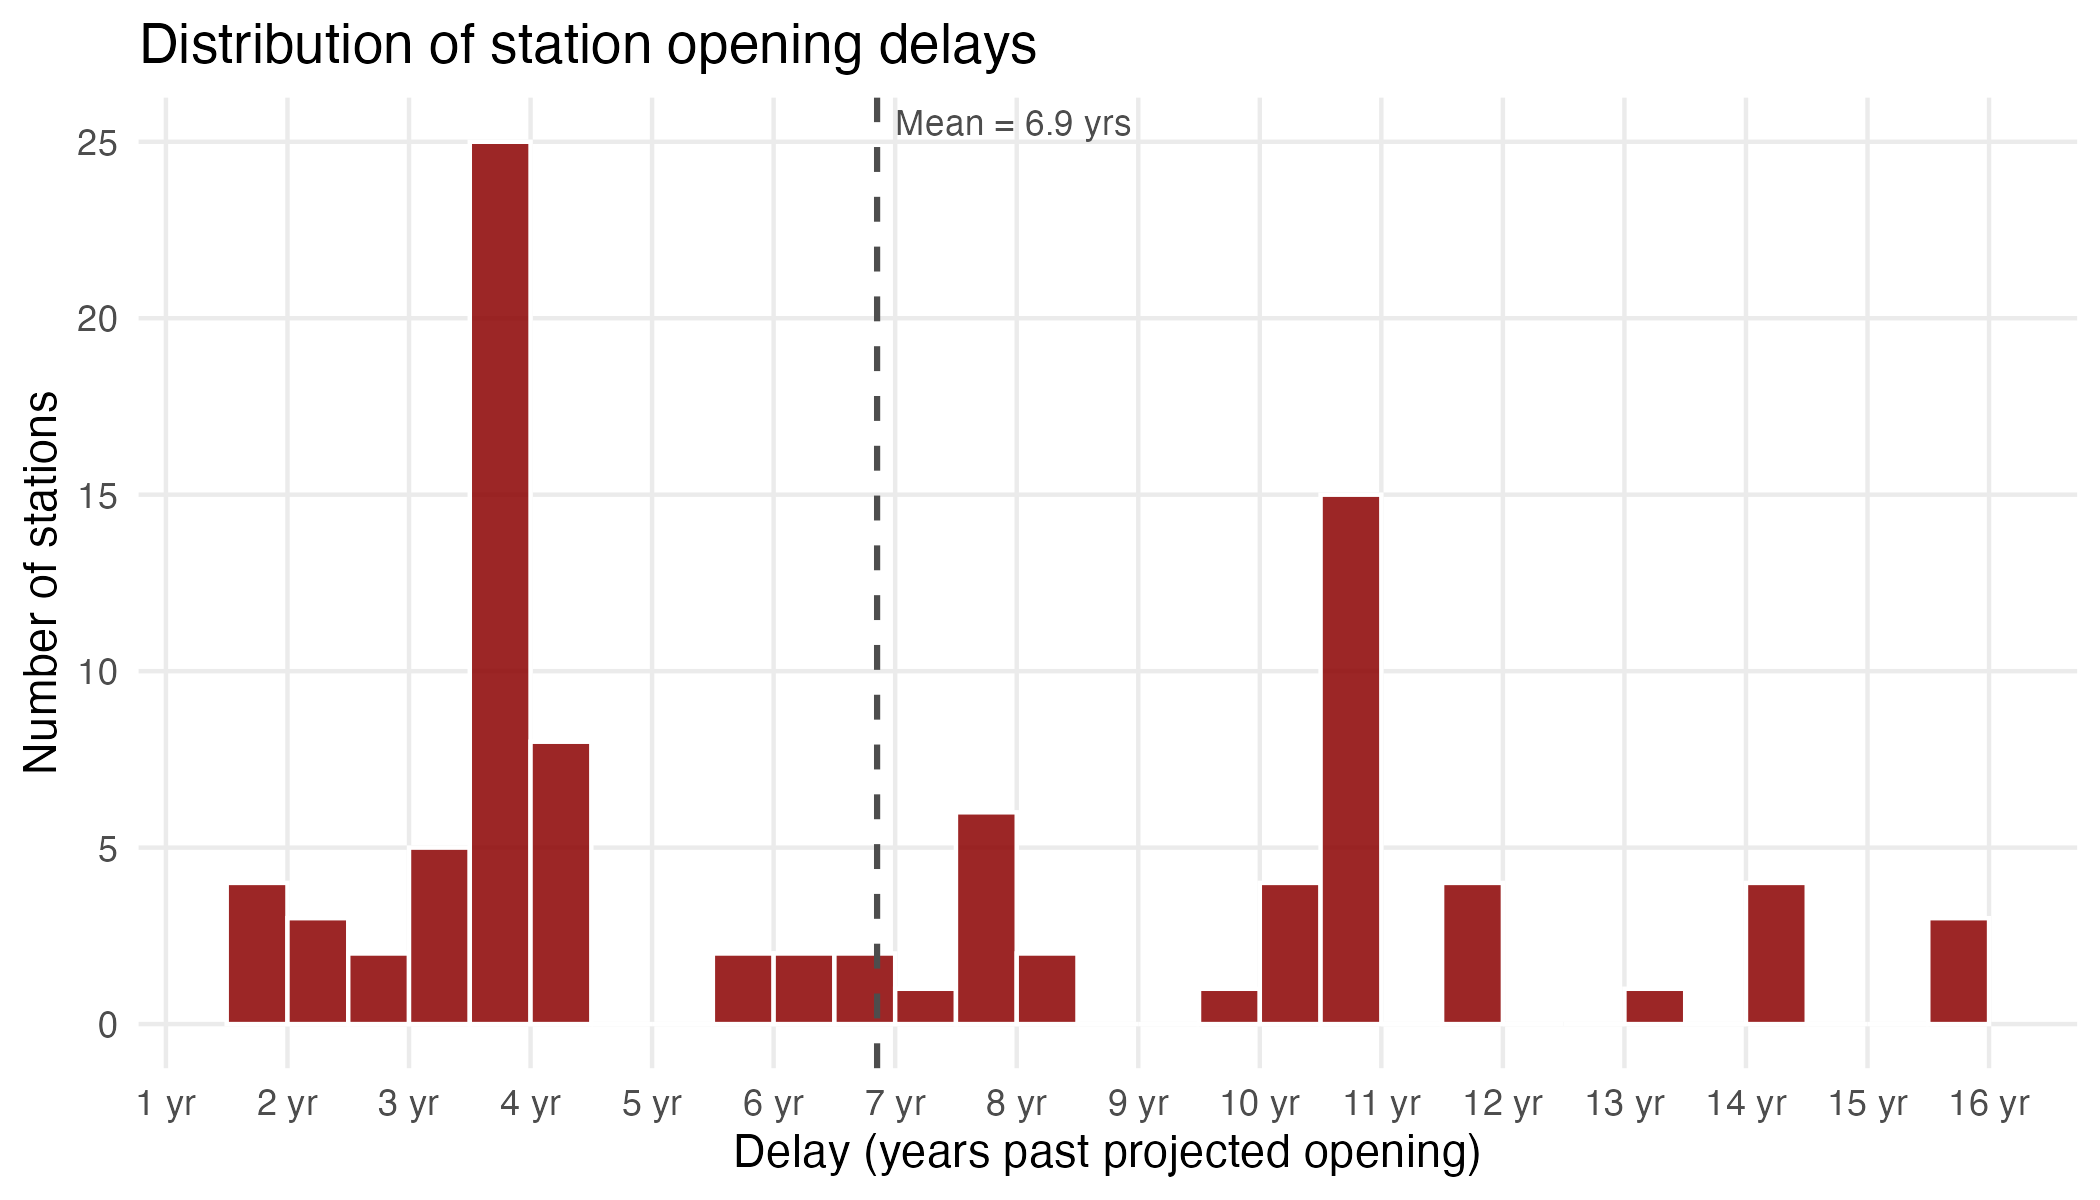
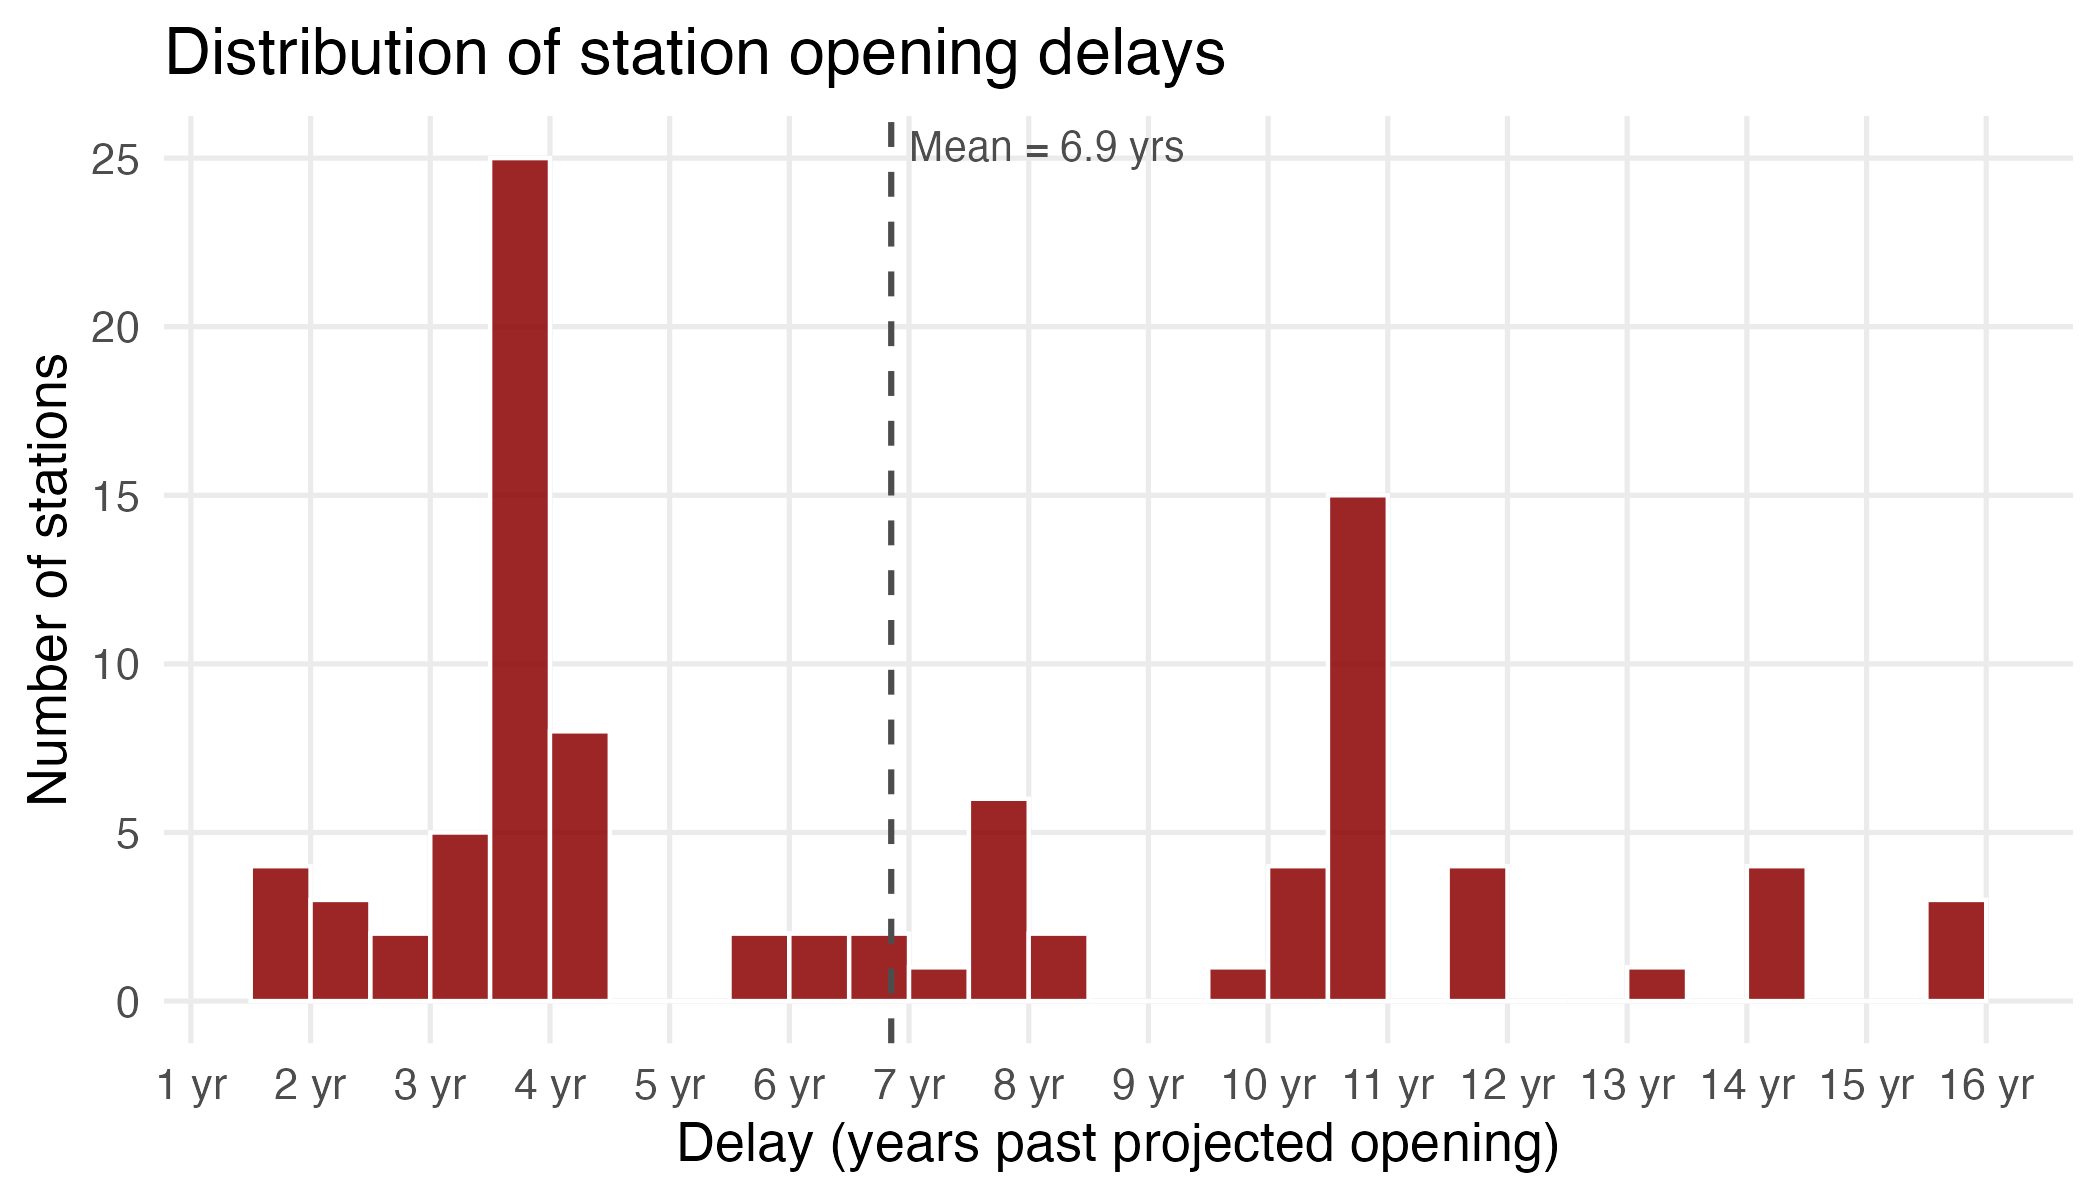
Increased font size

diff --git a/3_output/3_tables/3_delay_robustness/delay_labormarket_combined.tex b/3_output/3_tables/3_delay_robustness/delay_labormarket_combined.tex
@@ -1,0 +1,41 @@
+
+\begin{table}[htbp]
+   \caption{Delay (days) on labor market characteristics}
+   \centering
+\resizebox{!}{0.35\textheight}{%
+   \begin{tabular}{lccc}
+      \tabularnewline \midrule \midrule
+      Dependent Variable: & \multicolumn{3}{c}{Delay (days)}\\
+      Model:            & (1)     & (2)             & (3)\\  
+      \midrule
+      \emph{Variables}\\
+      Median income     & 4.582   &                 & 286.0\\   
+                        & (184.7) &                 & (259.4)\\   
+      LFP rate          & 55.08   &                 & 300.1$^{*}$\\   
+                        & (142.3) &                 & (173.6)\\   
+      Unemployment rate & -173.1  &                 & -127.5\\   
+                        & (106.3) &                 & (170.2)\\   
+      Employment rate   & -0.1869 &                 & -247.4$^{*}$\\   
+                        & (113.6) &                 & (125.6)\\   
+      Bachelor's share  & -11.80  &                 & -314.2\\   
+                        & (193.0) &                 & (216.0)\\   
+      Poverty rate      & 237.3   &                 & 136.5\\   
+                        & (279.8) &                 & (263.3)\\   
+      Constant          &         & 2,458.0$^{***}$ & 2,458.0$^{***}$\\   
+                        &         & (151.1)         & (151.2)\\   
+      \midrule
+      \emph{Fixed-effects}\\
+      system            & Yes     &                 & \\  
+      \midrule
+      \emph{Fit statistics}\\
+      Observations      & 91      & 91              & 91\\  
+      R$^2$             & 0.58834 &                 & 0.06631\\  
+      Within R$^2$      & 0.05623 &                 & \\  
+      \midrule \midrule
+      \multicolumn{4}{l}{\emph{Heteroskedasticity-robust standard-errors in parentheses}}\\
+      \multicolumn{4}{l}{\emph{Signif. Codes: ***: 0.01, **: 0.05, *: 0.1}}\\
+   \end{tabular}%
+}
+\end{table}
+
+

diff --git a/3_output/3_tables/3_delay_robustness/delay_income_state_system_fe.tex b/3_output/3_tables/3_delay_robustness/delay_income_state_system_fe.tex
@@ -1,0 +1,30 @@
+
+\begin{table}[htbp]
+   \caption{Delay (days) regressed on neighborhood income}
+   \centering
+\resizebox{!}{0.35\textheight}{%
+   \begin{tabular}{lcc}
+      \tabularnewline \midrule \midrule
+      Dependent Variable: & \multicolumn{2}{c}{Delay (days)}\\
+                         & No covariates & Income \\   
+      Model:             & (1)           & (2)\\  
+      \midrule
+      \emph{Variables}\\
+      Median income (SD) &               & -51.24\\   
+                         &               & (202.5)\\   
+      \midrule
+      \emph{Fixed-effects}\\
+      state              & Yes           & Yes\\  
+      system             & Yes           & Yes\\  
+      \midrule
+      \emph{Fit statistics}\\
+      Observations       & 91            & 91\\  
+      R$^2$              & 0.56382       & 0.56463\\  
+      Within R$^2$       &               & 0.00186\\  
+      \midrule \midrule
+      \multicolumn{3}{l}{\emph{Signif. Codes: ***: 0.01, **: 0.05, *: 0.1}}\\
+   \end{tabular}%
+}
+\end{table}
+
+
